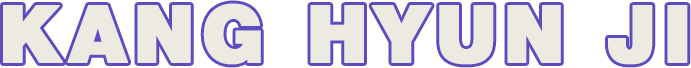
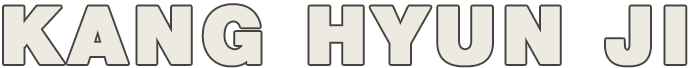
메인수정
색수정

Changed region(s): [[0.4255, 0.0294, 0.8205, 1.0], [0.0, 0.0, 0.3951, 1.0], [0.8509, 0.0294, 1.0, 1.0]]

diff --git a/css/styles1.css b/css/styles1.css
@@ -9,7 +9,7 @@ img{border:none;}
 html,body{ 
   height: 100%; 
   font-family:'Didact Gothic', 'Noto Sans KR',sans-serif; 
-  background-color:#edeae1;}
+  }
 #wrap{
   overflow:hidden;  
   width: 100%; 
@@ -41,6 +41,7 @@ hr{display:none;}
 .main{
   position: relative;
   z-index:700;
+  background-color:#a3ab8d;
 }
 .main>h1{
   position: relative;
@@ -54,23 +55,27 @@ hr{display:none;}
 }
 .main>h2{
   position: absolute;
-  top:7%; left:50%;
+  top:10%;
+  left:50%;
   transform:translateX(-50%);
   width: 691px;
   height: 68px;
   text-indent:-9999px;
   background-image: url(../images/h1.png);
+  opacity:0;
   background-repeat:no-repeat;
 }
 .main>h3{
   position: absolute;
-  left:23%;
+  left:30%;
   top:16%;  
   width: 54px;
   height: 522px;
   text-indent:-9999px;
   background-repeat:no-repeat;
-  background-image: url(../images/who.png);}
+  background-image: url(../images/who.png);
+  opacity:0;
+}
 
 
 
@@ -98,7 +103,7 @@ hr{display:none;}
   width:30px;
   height:30px;
   border-radius:50%;
- background-color:#5e4bc1;
+ background-color:#093b61;
 }
 .right{
   position: absolute;
@@ -128,7 +133,7 @@ hr{display:none;}
 
 .aboutme>.menubtn>.btn>p>a{
   display: block; 
-  color:#fd9735; 
+  color:#839973;
   font-size:70px; 
   font-weight:800;
   text-align:right;
@@ -136,7 +141,7 @@ hr{display:none;}
 }
 
 .aboutme>.menubtn>.btn>p.click>a,
-.aboutme>.menubtn>.btn>p>a:hover{ color:#ff6745; }
+.aboutme>.menubtn>.btn>p>a:hover{ color:#5f3a42; }
 .aboutme>.menubtn>.btn>.btn01>a{ font-size:90px; }
 .aboutme>.menubtn>.btn>p>a>img{ width:49px; height:49px; }
 
@@ -155,7 +160,7 @@ hr{display:none;}
   transform:translate(-50%,-50%); 
   width:900px;
   height:600px; 
-  border:15px solid #107c10;
+  border:15px solid #839973;
   z-index:100; 
 }
 
@@ -204,7 +209,7 @@ hr{display:none;}
   width:40%;
   height:65%;
   opacity:0;
-  background-color:#5e4ac1;
+  background-color:#839973;
 } 
 
 #skills>.stick>h2{ text-indent:-9999px; }
@@ -235,7 +240,7 @@ hr{display:none;}
 #skills>.stick>.container>div>.progress>.bar{
  height:100%;
  width:0;
- background-color:#8bd0d3;
+ background-color:#e2b9b3;
 transition:all 2s ease-in-out;
 }
     
@@ -257,7 +262,7 @@ transition:all 2s ease-in-out;
   color:#fff;
   font-size:23px;
   text-align: center;
-  background-color:#5e4ac1;
+  background-color:#839973;
 }
 
 .skill_text p{
@@ -311,60 +316,38 @@ transition:all 2s ease-in-out;
 
 .portfolio{
   position: relative; 
-
+  left: 0; top: 0;
 }
 
-
+.port_btn{
+  position:absolute;
+  top:80%;
+  right:20%;
+  outline:2px solid red;
+  z-index:100;
+}
 .port_btn>div>div>p{float:left;}
 .port_btn>div>h2, .port_btn>div>div{float:left}
-.port_menu>p{
-  margin-left:10px;
+.port_btn p{
+  margin-left:5px;
 }
-.port_menu>p>a{
+.port_btn a{
   display: block;
   width:32px;
-  height:32px;
-  
+  height:32px;  
   text-indent:-9999px;
-
+  background-repeat:no-repeat;
 }
-.port_menu>p:first-child{background-image:url(../images/two.png);}
+.port_menu{margin-bottom:10px;}
+.port_menu>p:first-child{background-image:url(../images/one.png);}
 .port_menu>p:nth-child(2){background-image:url(../images/two.png);}
-.port_menu>p:last-child{background-image:url(../images/two.png);}
+.port_menu>p:last-child{background-image:url(../images/three.png);}
 
-.other_btn>p{
+.other_menu>p:first-child{margin-left:38px;background-image:url(../images/one.png);}
+.other_menu>p:nth-child(2){background-image:url(../images/two.png);}
+.other_menu>p:last-child{background-image:url(../images/three.png);}
 
-}
-
-/*
-  .port_btn>div>h2{ 
-    width:330px; 
-    height:50px; 
-    color:#fd9735;  
-    font-size:50px;
-    margin:20px auto 30px;
-    text-align: center;
-    cursor:pointer; 
-}
-  
-  .port_btn>div a{
-    display: block; 
-    color:#fff; 
-    font-size:35px;
-    font-weight:bold;
-    text-align:center;
-    margin-bottom:5px;
-}
-
-  .p>a{transition:0.5s;}
-
-  .p.click>a{ 
-    color:#ff6745;
-    transform:scale(1.1);
-}  
-
-  .other_btn>.p_last{margin-bottom:35px;}
-*/
+.hoom{position: absolute; top:52px; left:14%;}
 
 .hoom>a>img{ width:49px; height:49px; }  
 
@@ -373,21 +356,19 @@ transition:all 2s ease-in-out;
 
 .port_tab{
   position: relative;
-  left:0%;
+  left:4%;
   top:50%;
+  width:1400px;
   transform:translateY(-50%);
-
  outline:1px solid green;
-  height: 500px;
+  height:580px;
 }
-.portalltab{
+
+.txt{
   position: absolute;
-
-  width:500px;
+  top:20%;
+  right:10%;
 }
-
-
-;
 
 
 

diff --git a/index.html b/index.html
@@ -36,15 +36,14 @@
                  </div>
                  <div class="other_btn clearfix">
                   <h2>Other</h2>
-                  <div class="oter_menu clearfix">
+                  <div class="other_menu clearfix">
                      <p class="p"><a href="#">Wedding Card</a></p>
                      <p class="p"><a href="#">Phone case</a></p>
-                     <p class="p p_last"><a href="#">Baby icon set</a></p>
-                     <p class="hoom"><a href="#"><img src="images/house.png" alt="홈으로"></a></p>                    
-                  </div>
+                     <p class="p p_last"><a href="#">Baby icon set</a></p>   
+                </div>
                  </div>
                </div>
-
+                <p class="hoom"><a href="#"><img src="images/house.png" alt="홈으로"></a></p>  
              <div class="port_tab">
               <div class="portalltab">
                  <div class="tab andez">

diff --git a/script/script.js b/script/script.js
@@ -1,9 +1,8 @@
 $(document).ready(function(){
-  //메인선
+
    $(window).load(function(){
-    $(".top").stop().animate({width:"100%"},1300,function(){
-        $(".bottom").stop().animate({width:"100%"},1000) 
-     });
+    $(".main>h2").animate({top:"7%",opacity:"1"},1000);
+    $(".main>h3").animate({left:"23%",opacity:"1"},1000);
 
     });
   
